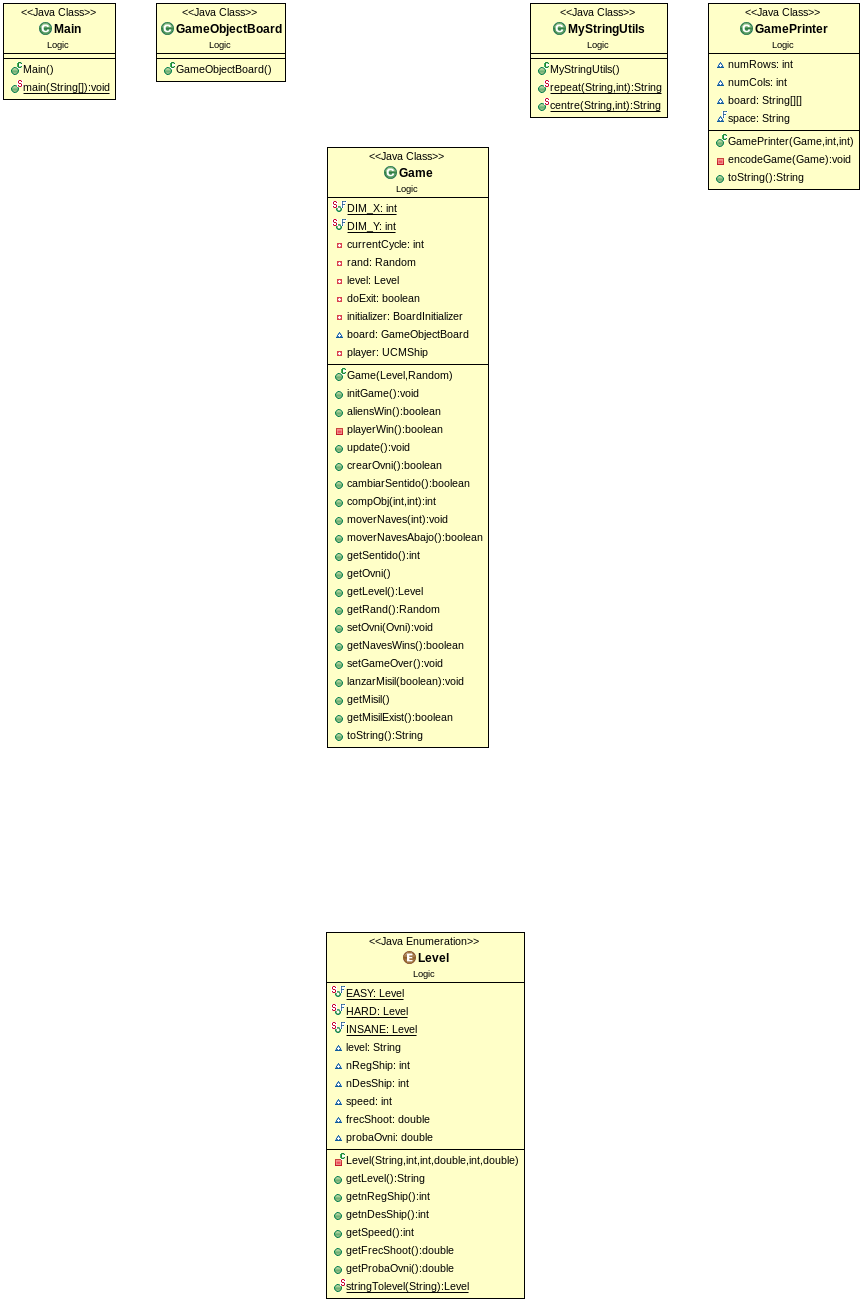
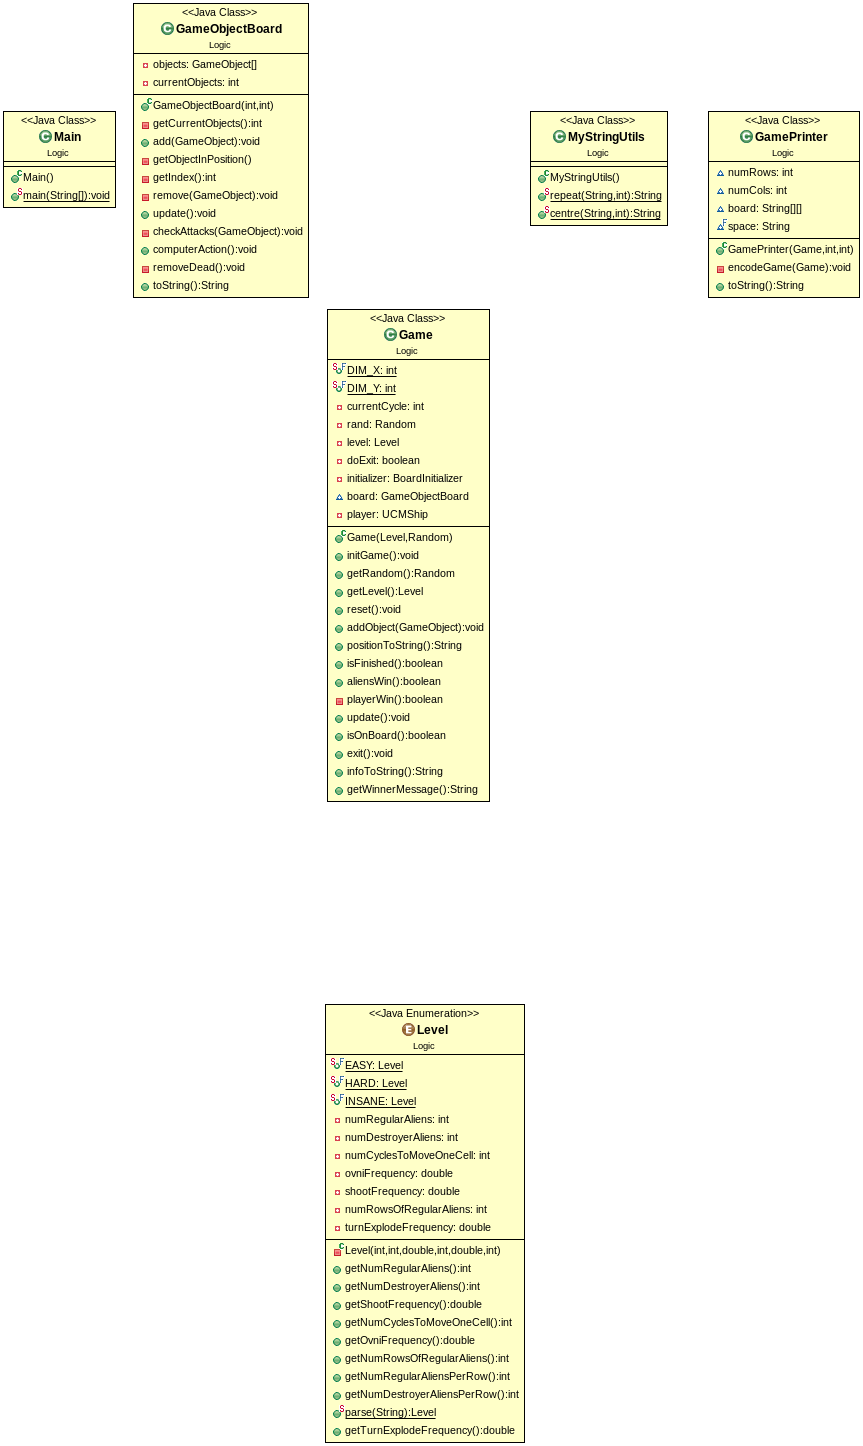
SE PASA TODO EL CODIGO DEL ENUNCIADO DE LA PRACTICA

diff --git a/src/Logic/Level.java b/src/Logic/Level.java
@@ -1,56 +1,76 @@
-package tp.p1;
+package Logic;
 
 public enum Level {
 
-	EASY ("EASY", 4, 2, 0.9, 3, 0.5),
-	HARD ("HARD", 8, 2, 0.3, 2, 0.2),
-	INSANE ("INSANE", 8, 4, 0.5, 1, 0.1);
-	
-	String level;
-	int nRegShip, nDesShip, speed;
-	double frecShoot, probaOvni;
-	
-	private Level (String level, int nRegShip, int nDesShip, double frecShoot, int speed, double probaOvni) {
+	EASY(4, 2, 0.2, 3, 0.5, 1),
+	HARD(8, 4, 0.3, 2, 0.2, 2),
+	INSANE(12, 4, 0.5, 1, 0.1, 3);
+	private int numRegularAliens;
+	private int numDestroyerAliens;
+	private int numCyclesToMoveOneCell;
+	private double ovniFrequency;
+	private double shootFrequency;
+	private int numRowsOfRegularAliens;
+	//ERRATA AL COPIAR CAMBIO INT POR DOUBLE
+	private double  turnExplodeFrequency = 0.05; // actualmente no depende del nivel
 		
-		this.level = level;
-		this.nRegShip = nRegShip;
-		this.nDesShip = nDesShip;
-		this.speed = speed;
-		this.frecShoot  = frecShoot;
-		this.probaOvni = probaOvni;
+	private Level(
+		int numRegularAliens,
+		int numDestroyerAliens,
+		double shootFrequency,
+		int numCyclesToMoveOneCell,  
+		double ovniFrequency,
+		int numRowsOfRegularAliens)
+	{	
+		this. numRegularAliens = numRegularAliens;
+		this. numDestroyerAliens = numDestroyerAliens;
+		this. shootFrequency = shootFrequency;
+		this. numCyclesToMoveOneCell = numCyclesToMoveOneCell;
+		this. ovniFrequency = ovniFrequency;
+		this. numRowsOfRegularAliens = numRowsOfRegularAliens;
 	}
-
-	public String getLevel() {
+	
+	public int getNumRegularAliens() {
+		return numRegularAliens;
+	}
+	
+	public int getNumDestroyerAliens() {
+		return numDestroyerAliens;
+	}
+	
+	public double getShootFrequency() {
+		return shootFrequency;
+	}
+	
+	public int getNumCyclesToMoveOneCell() {
+			return numCyclesToMoveOneCell;
+	}
+	
+	public double getOvniFrequency() {
+		return ovniFrequency;
+	}
+	
+	public int getNumRowsOfRegularAliens() {
+		return numRowsOfRegularAliens;
+	}
+	
+	public int getNumRegularAliensPerRow() {
+		return numRegularAliens / numRowsOfRegularAliens;
+	}
+	
+	public int getNumDestroyerAliensPerRow() {
+		return getNumDestroyerAliens();
+	}
+	
+	public static Level parse(String cadenaEntrada) {
+		for (Level level : Level. values() )
+		if (level . name().equalsIgnoreCase(cadenaEntrada))
 		return level;
-	}
-
-	public int getnRegShip() {
-		return nRegShip;
-	}
-
-	public int getnDesShip() {
-		return nDesShip;
-	}
-
-	public int getSpeed() {
-		return speed;
-	}
-
-	public double getFrecShoot() {
-		return frecShoot;
-	}
-
-	public double getProbaOvni() {
-		return probaOvni;
+		return EASY;
 	}
 	
-	
-	public static Level  stringTolevel(String parametro) {
-		for (Level nivel : Level.values()) {
-			if (nivel.level.equals(parametro))
-				return nivel;
-		}
-		return null;
-	}
+	public double getTurnExplodeFrequency(){
+		return turnExplodeFrequency;
+	}	
 
 }

diff --git a/src/Logic/Game.java b/src/Logic/Game.java
@@ -2,6 +2,8 @@ package Logic;
 import java.util.Random;
 
 
+//FALTA IMPORTAR CLASES QUE USA GAME
+
 /*
  * La clase Game solo tendrá un
 	atributo de tipo GameObjectBoard y otro de tipo UCMShip. Con estos dos atributos se
@@ -57,17 +59,68 @@ public class Game implements IPlayerController{
 		board.add(player);
 	}
 	
-	public boolean aliensWin() {
-		return !player.isAlive () || AlienShip.haveLanded();
+	public Random getRandom() {
+		return rand;
 	}
-	
+		
+	public Level getLevel() {
+		return level;
+	}
+		
+	public void reset() {
+		initGame();
+		}
+		
+	public void addObject(GameObject object) {
+		board.add(object);
+	}
+			
+	public String positionToString( /∗ coordinadas ∗/ ) {
+		return board.toString( /∗ coordinadas ∗/ );
+	}
+			
+	public boolean isFinished() {
+				
+		return playerWin() || aliensWin() || doExit;
+	}
+			
+	public boolean aliensWin() {
+		return !player.isAlive () || AlienShip.haveLanded();		
+		
+	}
+
 	private boolean playerWin () {
 		return AlienShip.allDead();
 	}
+	
 	public void update() {
 		board.computerAction();
 		board.update();
 		currentCycle += 1;
+	}
+	
+	public boolean isOnBoard( /∗ coordinadas ∗/ ) {
+		return /∗ condición de rango sobre las coordinadas ∗/ ;
+	}
+	
+	public void exit() {
+		doExit = true;
+	}
+	
+	public String infoToString() {
+		return /∗ cadena estado−juego para imprimir junto con el tablero ∗/ ;
+	}
+	
+	public String getWinnerMessage () {
+		if (playerWin()) return "Player win!";
+		else if (aliensWin()) return "Aliens win!";
+		else if (doExit) return "Player exits the game";
+		else "This should not happen"
+	}	
+	
+	
+	
+	//TODO implementar los metodos de la interfaz IPlayerController
 }
 
 
@@ -165,8 +218,7 @@ public class Game {
 		int velocidad = level.getSpeed();
 		cicloActual += 1;
 			if(cicloActual % velocidad == 0 && cicloActual != 0) {
-				/*if(isCeldaVacia(this.desList.getDestroyerList(0).getX()+this.sentido,this.desList.getDestroyerList(0).getY())==true
-						&& isCeldaVacia(this.reguList.getRegularList(0).getX()+this.sentido,this.reguList.getRegularList(0).getY())==true)*/ {
+			{
 					if(!cambiarSentido()){
 						moverNaves(getSentido());
 					}

diff --git a/src/Objects/GameObject.java b/src/Objects/GameObject.java
@@ -1,6 +1,43 @@
 //PAQUETE QUE LO CONTIENE
 package Objects;
 
-public abstract class GameObject {
+public abstract class GameObject implements IAttack {
+	
+	protected /∗ coordinadas ∗/ ;
+	protected int live;
+	protected Game game;
+	
+	public GameObject( Game game, /∗ coordinadas iniciales ∗/ , int live) {
+	/∗ almacenar coordinadas iniciales ∗/
+		this. game = game;
+		this. live = live;
+	}
+	
+	/∗ métodos que devuelven el valor de las coordinadas ∗/
+	public boolean isAlive() {
+		return this.live > 0;
+	}
+	
+	public int getLive() {
+		return this.live;
+	}
+	
+	public boolean isOnPosition( /∗ otras coordinadas ∗/ ) {
+		return /∗ coordinadas = otras coordinadas ∗/ ;
+	}
+	
+	public void getDamage (int damage) {
+		this. live = damage >= this.live ? 0 : this.live − damage;
+	}
+	
+	public boolean isOut() {
+		return !game.isOnBoard( /∗ coordinadas ∗/ );
+	}
+	
+	
+	public abstract void computerAction();
+	public abstract void onDelete();
+	public abstract void move();
+	public abstract String toString();
 
 }

diff --git a/src/Logic/GameObjectBoard.java b/src/Logic/GameObjectBoard.java
@@ -18,4 +18,51 @@ public class GameObjectBoard {
 		métodos tienen muy poca lógica, toda la funcionalidad se delega a los objetos de juego.
 	 */
 
+	private GameObject[] objects;
+	private int currentObjects;
+	
+	public GameObjectBoard (int width, int height) {
+	// TODO implement
+	}
+	
+	private int getCurrentObjects () {
+	// TODO implement
+	}
+	
+	public void add (GameObject object) {
+	// TODO implement
+	}
+	
+	private GameObject getObjectInPosition ( /∗ coordinadas ∗/ ) {
+	// TODO implement
+	}
+	
+	private int getIndex( /∗ coordinadas ∗/ ) {
+	// TODO implement
+	}
+	
+	private void remove (GameObject object) {
+	// TODO implement
+	}
+	
+	public void update() {
+	// TODO implement
+	}
+	
+	private void checkAttacks(GameObject object) {
+	// TODO implement
+	}
+	
+	public void computerAction() {
+	// TODO implement
+	}
+	
+	private void removeDead() {
+	// TODO implement
+	}
+	
+	public String toString( /∗ coordinadas ∗/ ) {
+	// TODO implement
+	}
+	
 }

diff --git a/src/Logic/BoardInitializer.java b/src/Logic/BoardInitializer.java
@@ -1,0 +1,29 @@
+package Logic;
+
+public class BoardInitializer {
+
+	private Level level ;
+	private GameObjectBoard board;
+	private Game game;
+	
+	public GameObjectBoard initialize(Game game, Level level) {
+	this. level = level;
+	this. game = game;
+	board = new GameObjectBoard(Game.DIM_X, Game.DIM_Y);
+	
+	initializeOvni () ;
+	initializeRegularAliens () ;
+	initializeDestroyerAliens () ;
+	return board;
+	}
+	
+	private void initializeOvni () {
+	// TODO implement
+	}
+	private void initializeRegularAliens () {
+	// TODO implement
+	}
+	private void initializeDestroyerAliens () {
+	// TODO implement
+	}
+}

diff --git a/src/Logic/IExecuteRandomActions.java b/src/Logic/IExecuteRandomActions.java
@@ -10,5 +10,13 @@ package Logic;
  */
 
 public interface IExecuteRandomActions {
+	
+	static boolean canGenerateRandomOvni(Game game){
+		return game.getRandom().nextDouble() < game.getLevel().getOvniFrequency();
+	}
+	
+	static boolean canGenerateRandomBomb(Game game){
+		return game.getRandom().nextDouble() < game.getLevel().getShootFrequency();
+	}
 
 }
